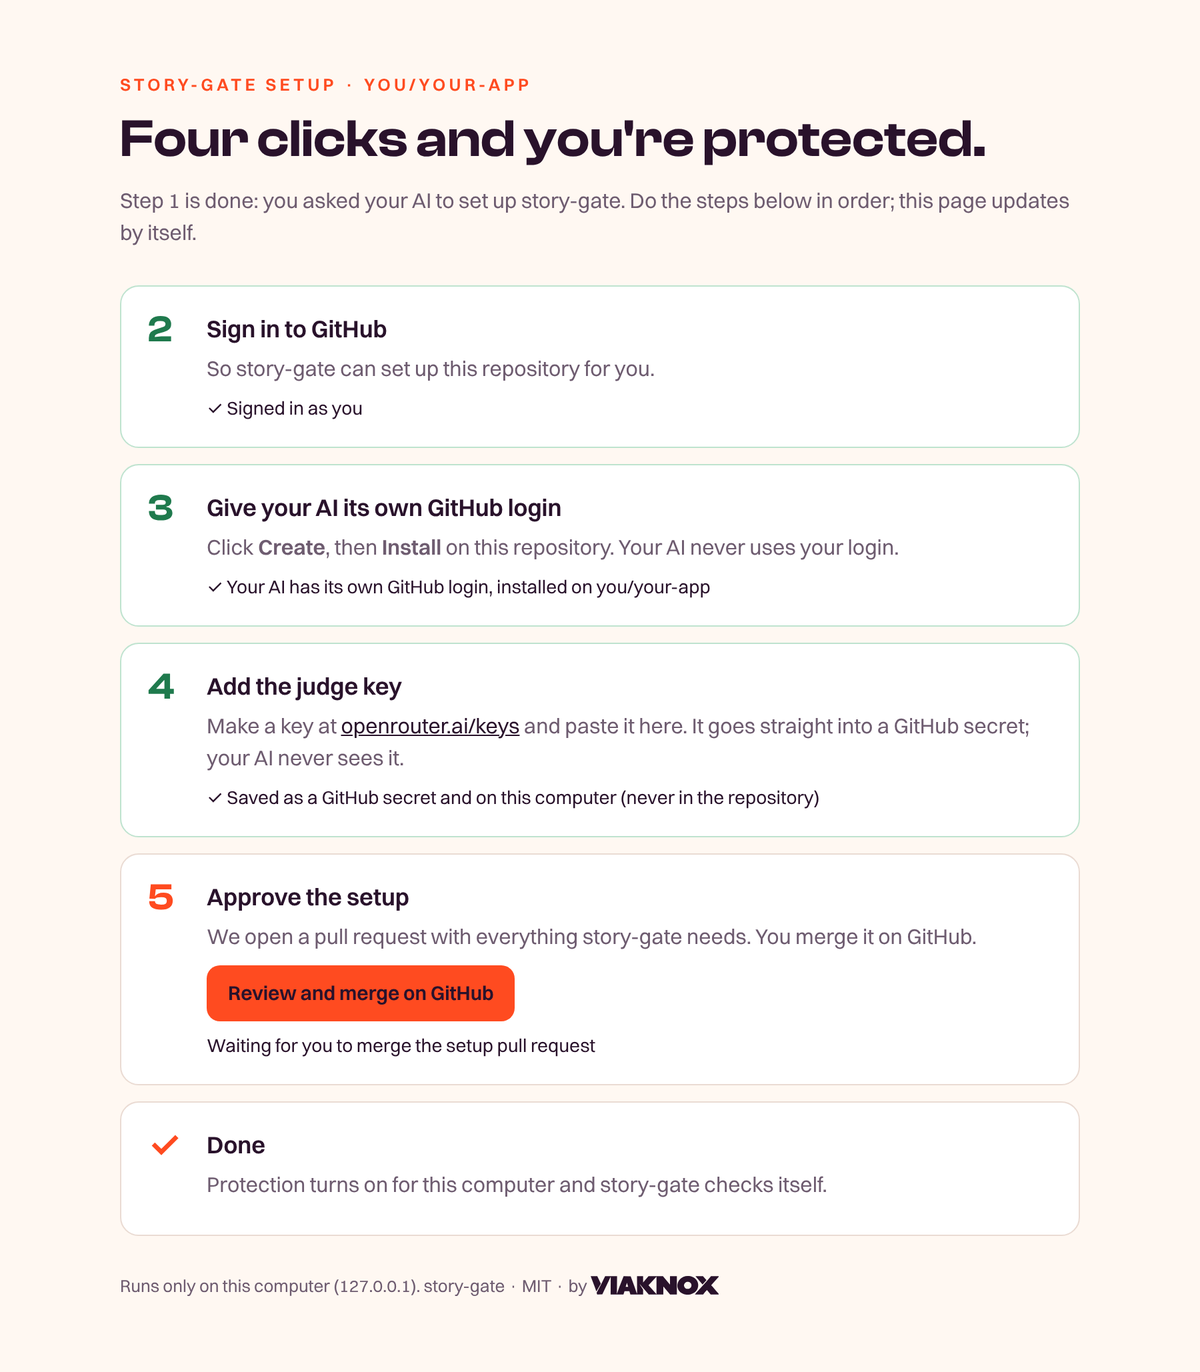
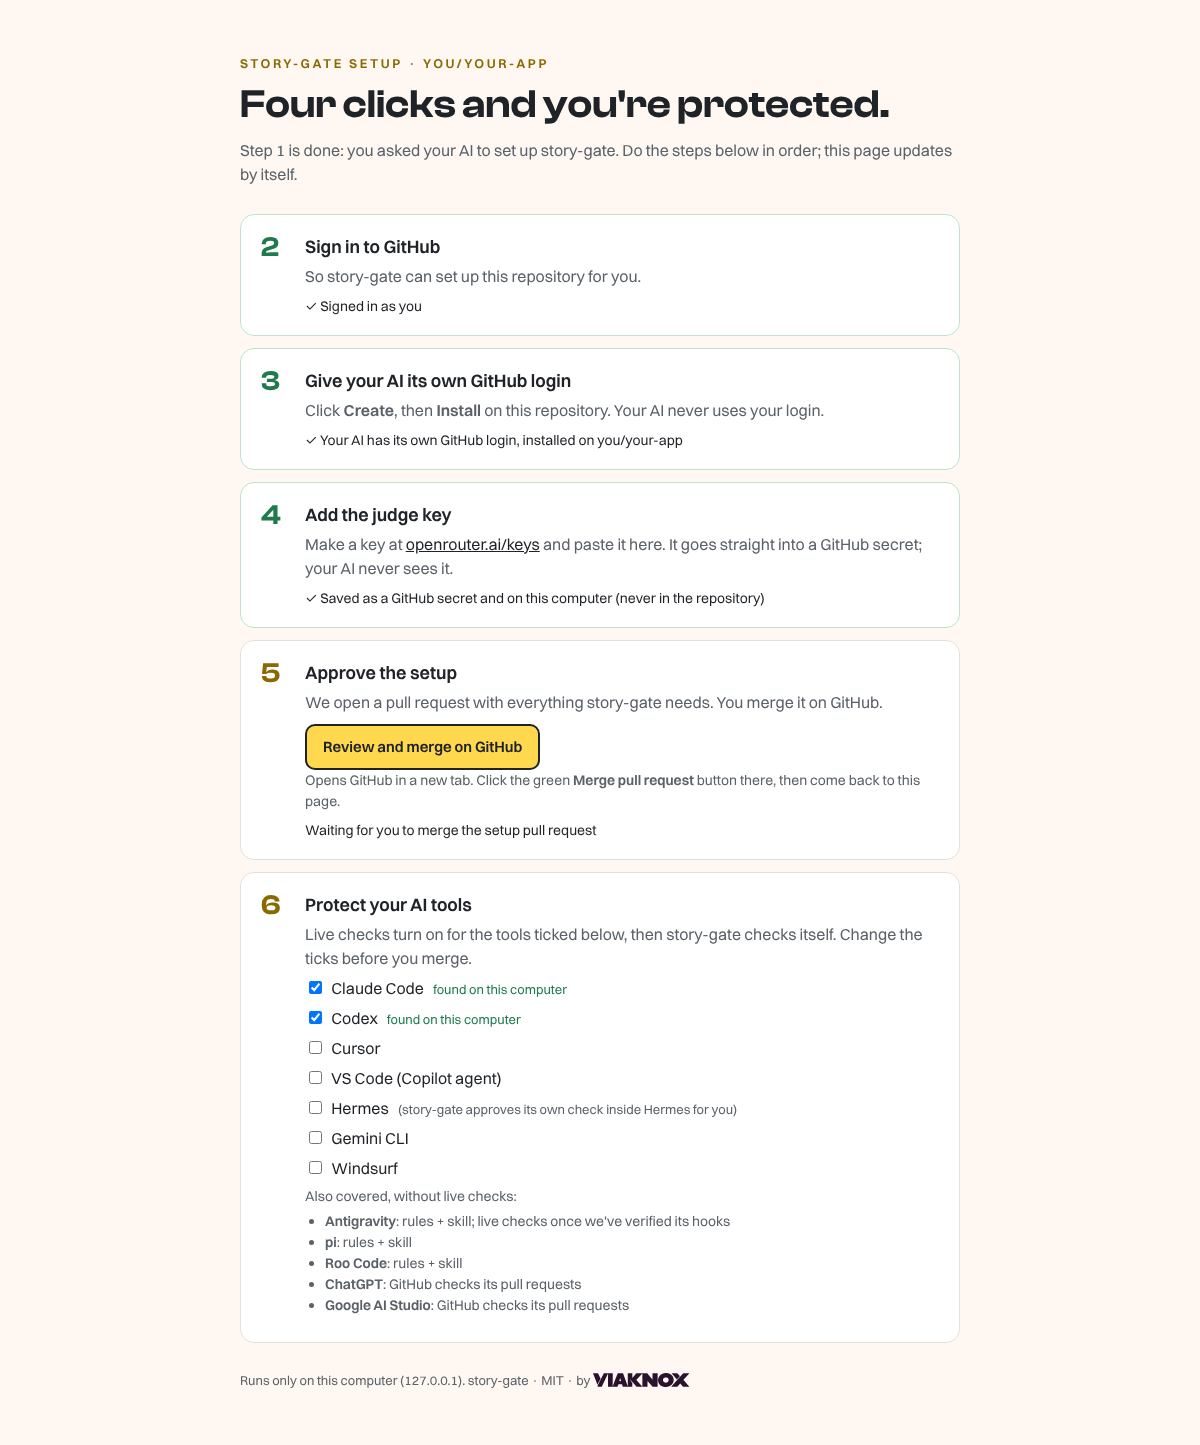
feat: setup page, dashboard and validation page in the story-gate identity
- Signal Yellow #FFD84D replaces Tangelo as the accent; Graphite #1F2327 text.
  Small accent text on light uses #8A6A00 (AA); yellow buttons, notes and
  chart bars carry a Graphite outline so they stay visible on white.
- Dashboard dark mode moves to Graphite surfaces; the Viaknox wordmark keeps
  its brand colour (Aubergine on light, Paper on dark).
- Setup errors use the critical red instead of the old accent.
- Dashboard label colour FFD84D; test updated.
- Screenshots retaken: setup-page.png (now shows the AI-tools step),
  validation-page.png, and dashboard.png rebuilt from an HTML source.

Claude-Session: https://claude.ai/code/session_01929bs6sfYgdxUDiXbAUoKN

diff --git a/docs/assets/src/dashboard.html b/docs/assets/src/dashboard.html
@@ -1,0 +1,25 @@
+<!doctype html><html><head><meta charset="utf-8"><link rel="stylesheet" href="theme.css"><style>
+.cols{display:grid;grid-template-columns:1fr 1fr;gap:31px;margin-top:56px}
+.shot{background:var(--card);border:1.5px solid var(--line);border-radius:22px;padding:34px 34px 30px}
+.shot h3{margin:0 0 8px}.shot p{font-size:23px;line-height:1.5;color:var(--muted);margin-bottom:22px}.shot p b{color:var(--ink)}
+.frame{border:1.5px solid var(--line);border-radius:14px;overflow:hidden;height:640px;position:relative}.frame img{width:100%;display:block}
+.pin{position:absolute;width:52px;height:52px;border-radius:50%;background:var(--yellow);color:var(--ink);font:600 28px/48px Clash;text-align:center;border:2px solid var(--ink);box-shadow:0 0 0 5px #fff}
+.how{display:grid;grid-template-columns:repeat(3,1fr);gap:31px;margin-top:31px}
+.how h3{margin:20px 0 10px}.how p{font-size:23px;line-height:1.52;color:var(--muted)}.how p b{color:var(--ink)}
+</style></head><body>
+<div class="top"><img src="../story-gate-mark-small.svg" alt=""><div class="eyebrow">THE DASHBOARD · WHERE YOUR PROJECT STANDS</div></div>
+<h1>See every story, every agent, at a glance.</h1>
+<p class="lede">No new app to learn. It lives in your repository, and only people who can see the repository can see it.</p>
+<div class="cols">
+ <div class="shot"><h3>On GitHub: the pinned issue</h3><p>Open your repository → <b>Issues</b> → <b>Story-gate dashboard</b> at the top. It updates by itself.</p>
+  <div class="frame"><img src="dashboard-issue.png" alt=""></div></div>
+ <div class="shot"><h3>The full report</h3><p>Click <b>download the HTML dashboard</b> in the issue. The numbers below point here.</p>
+  <div class="frame"><img src="dashboard-report.png" alt=""><span class="pin" style="right:14px;top:62px">1</span><span class="pin" style="right:14px;top:148px">2</span><span class="pin" style="left:250px;top:128px">3</span></div></div>
+</div>
+<div class="how">
+ <div class="card"><div class="big">1</div><h3>Is the project healthy?</h3><p>The top numbers: stories ready to build, in progress, done, and how many acceptance criteria tests proved.</p></div>
+ <div class="card"><div class="big">2</div><h3>Who's working on what?</h3><p>Each AI agent, its story, % done, and whether it's drifting from the spec. <b>AT_RISK</b> means look now.</p></div>
+ <div class="card"><div class="big">3</div><h3>What's next?</h3><p>"Queued to start" lists stories that passed READY and are waiting. Ask your AI: <code>story-gate dashboard --open</code></p></div>
+</div>
+<footer><span class="l"><img src="../story-gate-mark-small.svg" alt="">story-gate · MIT · github.com/SathiaAI/story-gate</span><span class="by">by <img src="../../../.story-gate/vendor/viaknox-wordmark.svg" alt="Viaknox"></span></footer>
+</body></html>

diff --git a/.story-gate/sg_dashboard.py b/.story-gate/sg_dashboard.py
@@ -514,23 +514,23 @@ WORDMARK_FILE = Path(__file__).resolve().parent / "vendor" / "viaknox-wordmark.s
 TABLER_FILE = Path(__file__).resolve().parent / "vendor" / "tabler.min.css"
 
 BRAND_CSS = """
-:root{--sg-tangelo:#FF4B20;--sg-aubergine:#29122B;--sg-paper:#FFF8F2;--sg-ink:#29122B;--sg-muted:#6E5C70;--sg-surface:#FFF8F2;--sg-card:#FFFFFF;
---sg-line:#E9DDD4;--sg-critical:#B42318;--tblr-primary:#FF4B20;--tblr-body-bg:#FFF8F2;--tblr-body-color:#29122B}
-@media (prefers-color-scheme: dark){:root{--sg-ink:#FFF8F2;--sg-muted:#CDBFCF;--sg-surface:#1E0D20;--sg-card:#29122B;--sg-line:#4A2F4D;
---sg-critical:#FF8A80;--tblr-body-bg:#1E0D20;--tblr-body-color:#FFF8F2}}
+:root{--sg-accent:#FFD84D;--sg-accent-text:#8A6A00;--sg-graphite:#1F2327;--sg-paper:#FFF8F2;--sg-ink:#1F2327;--sg-muted:#5B6168;--sg-surface:#FFF8F2;--sg-card:#FFFFFF;
+--sg-line:#E4E1DB;--sg-critical:#B42318;--sg-wordmark:#29122B;--tblr-primary:#1F2327;--tblr-body-bg:#FFF8F2;--tblr-body-color:#1F2327}
+@media (prefers-color-scheme: dark){:root{--sg-ink:#F1F5F2;--sg-muted:#B9C0C6;--sg-surface:#16191C;--sg-card:#1F2327;--sg-line:#3A4046;--sg-accent-text:#FFD84D;
+--sg-critical:#FF8A80;--sg-wordmark:#FFF8F2;--tblr-primary:#FFD84D;--tblr-body-bg:#16191C;--tblr-body-color:#F1F5F2}}
 body{background:var(--sg-surface);color:var(--sg-ink)}
 h1,h2,h3,.h1,.card-title,strong{color:var(--sg-ink)} .card-header{border-color:var(--sg-line)}
 .table{--tblr-table-bg:transparent;--tblr-table-color:var(--sg-ink);--tblr-table-border-color:var(--sg-line)}
 .table thead th{background:transparent;color:var(--sg-muted);border-color:var(--sg-line)}
-.alert{background:var(--sg-card);color:var(--sg-ink);border:1px solid var(--sg-line);border-left:4px solid var(--sg-tangelo)}
+.alert{background:var(--sg-card);color:var(--sg-ink);border:1px solid var(--sg-line);border-left:4px solid var(--sg-accent)}
 .card{background:var(--sg-card);border-color:var(--sg-line)} .table{color:var(--sg-ink)} .text-secondary{color:var(--sg-muted)!important}
 .sg-kpi .h1{font-weight:700;letter-spacing:-.01em;margin:0} .sg-kpi .subheader{color:var(--sg-muted)}
-.sg-chart{width:100%;height:auto} .sg-bar{fill:var(--sg-tangelo)} .sg-bar-critical{fill:var(--sg-critical)}
+.sg-chart{width:100%;height:auto} .sg-bar{fill:var(--sg-accent);stroke:var(--sg-graphite);stroke-width:1.5} .sg-bar-critical{fill:var(--sg-critical)}
 .sg-axis,.sg-value{fill:var(--sg-ink);font-size:14px} .sg-value{font-weight:600}
 .sg-pill{display:inline-block;padding:.1rem .5rem;border-radius:999px;border:1px solid var(--sg-line);font-size:.8rem;white-space:nowrap}
 .sg-pill.pass{border-color:#2E7D4F} .sg-pill.fail{border-color:var(--sg-critical)} .sg-est{color:var(--sg-muted);font-size:.8rem}
-.sg-brand{color:var(--sg-ink);display:inline-flex;align-items:center;gap:.4rem} .sg-brand svg{height:14px;width:auto}
-header.sg-head{border-bottom:3px solid var(--sg-tangelo)}
+.sg-brand{color:var(--sg-ink);display:inline-flex;align-items:center;gap:.4rem} .sg-brand svg{height:14px;width:auto;color:var(--sg-wordmark)}
+header.sg-head{border-bottom:3px solid var(--sg-accent)}
 @media (max-width:640px){.container-xl{padding-left:16px;padding-right:16px}}
 """
 
@@ -665,7 +665,7 @@ def publish_issue(G, repo, token, body, generated_at, issue_number=None):
     The issue is found by `dashboard_issue` in config (if a human set it), else by the story-gate-dashboard label."""
     st, _, _ = call(G, "GET", "/repos/%s/labels/%s" % (repo, LABEL), token)
     if st == 404:
-        call(G, "POST", "/repos/%s/labels" % repo, token, {"name": LABEL, "color": "FF4B20", "description": "Managed by story-gate"})
+        call(G, "POST", "/repos/%s/labels" % repo, token, {"name": LABEL, "color": "FFD84D", "description": "Managed by story-gate"})
     st, issues, _ = call(G, "GET", "/repos/%s/issues?labels=%s&state=all&per_page=20&sort=created&direction=asc" % (repo, LABEL), token)
     if st == 410:
         return "Issues are turned off in this repository, so the dashboard is only in the workflow summary and the report artifact."

diff --git a/.story-gate/sg_setup.py b/.story-gate/sg_setup.py
@@ -396,19 +396,19 @@ CSS = """
 @font-face{font-family:"Clash Display";font-weight:600;src:url(/font/ClashDisplay-600.woff2) format("woff2")}
 @font-face{font-family:Switzer;font-weight:400;src:url(/font/Switzer-400.woff2) format("woff2")}
 @font-face{font-family:Switzer;font-weight:600;src:url(/font/Switzer-600.woff2) format("woff2")}
-:root{--tangelo:#FF4B20;--aubergine:#29122B;--paper:#FFF8F2;--muted:#6E5C70;--line:#EADBD3;--ok:#1F7A4D}
-*{box-sizing:border-box}body{margin:0;background:var(--paper);color:var(--aubergine);font:16px/1.5 Switzer,"Segoe UI",system-ui,sans-serif}
+:root{--yellow:#FFD84D;--yellow-text:#8A6A00;--graphite:#1F2327;--paper:#FFF8F2;--muted:#5B6168;--line:#E4E1DB;--ok:#1F7A4D;--error:#B42318}
+*{box-sizing:border-box}body{margin:0;background:var(--paper);color:var(--graphite);font:16px/1.5 Switzer,"Segoe UI",system-ui,sans-serif}
 main{max-width:760px;margin:6vh auto;padding:0 20px}h1{font:600 40px/1.1 "Clash Display",Switzer,system-ui,sans-serif;margin:.2em 0 .3em}
-.eyebrow{color:var(--tangelo);letter-spacing:.2em;font-size:13px;font-weight:600;text-transform:uppercase}
+.eyebrow{color:var(--yellow-text);letter-spacing:.2em;font-size:13px;font-weight:600;text-transform:uppercase}
 .lead{color:var(--muted);margin:0 0 28px}.step{background:#fff;border:1px solid var(--line);border-radius:14px;padding:18px 20px;margin:12px 0;display:flex;gap:16px}
-.n{font:600 28px/1 "Clash Display",system-ui;color:var(--tangelo);min-width:28px}.step h2{font-size:18px;margin:0 0 4px}.step p{margin:0;color:var(--muted)}
-.step.ok{border-color:#BFE3CF}.step.ok .act{display:none}a{color:var(--aubergine)}.step.ok .n{color:var(--ok)}.step.error{border-color:var(--tangelo)}.msg{margin-top:8px;font-size:14px}.hint{margin:8px 0 0;font-size:14px;color:var(--muted)}
-button,.btn{background:var(--tangelo);color:var(--aubergine);border:0;border-radius:10px;padding:10px 16px;font-weight:600;font-size:15px;cursor:pointer;text-decoration:none;display:inline-block;margin-top:10px}
+.n{font:600 28px/1 "Clash Display",system-ui;color:var(--yellow-text);min-width:28px}.step h2{font-size:18px;margin:0 0 4px}.step p{margin:0;color:var(--muted)}
+.step.ok{border-color:#BFE3CF}.step.ok .act{display:none}a{color:var(--graphite)}.step.ok .n{color:var(--ok)}.step.error{border-color:var(--error)}.msg{margin-top:8px;font-size:14px}.hint{margin:8px 0 0;font-size:14px;color:var(--muted)}
+button,.btn{background:var(--yellow);color:var(--graphite);border:2px solid var(--graphite);border-radius:10px;padding:10px 16px;font-weight:600;font-size:15px;cursor:pointer;text-decoration:none;display:inline-block;margin-top:10px}
 button:disabled{opacity:.4;cursor:default}input{font:inherit;padding:9px 12px;border:1px solid var(--line);border-radius:10px;width:min(420px,100%)}
 .lbl{display:block;margin-top:10px;font-weight:600}.lbl span{font-weight:400;color:var(--muted);font-size:14px}.lbl input{display:block;margin-top:6px}
 .tool{display:block;margin:6px 0}.tool input{width:auto;margin-right:6px}.tool span{color:var(--ok);font-size:13px;margin-left:6px}.tool em{color:var(--muted);font-size:13px;font-style:normal;margin-left:6px}.other{margin:4px 0 0;padding-left:20px;color:var(--muted);font-size:14px}
 .code{font:600 28px/1 ui-monospace,monospace;letter-spacing:.15em;background:var(--paper);padding:8px 12px;border-radius:8px;display:inline-block;margin-top:8px}
-.by svg{height:14px;width:auto;vertical-align:-2px}.note{background:var(--tangelo);color:var(--aubergine);border-radius:14px;padding:14px 18px;margin-top:18px}.foot{margin-top:28px;color:var(--muted);font-size:13px}
+.by svg{height:14px;width:auto;vertical-align:-2px}.note{background:var(--yellow);color:var(--graphite);border:2px solid var(--graphite);border-radius:14px;padding:14px 18px;margin-top:18px}.foot{margin-top:28px;color:var(--muted);font-size:13px}
 """
 
 

diff --git a/.story-gate/sg_report.py b/.story-gate/sg_report.py
@@ -188,7 +188,7 @@ def md_html(text):
 CSS = """
 .sg-code{color:var(--sg-ink);background:var(--sg-card);border:1px solid var(--sg-line);padding:.75rem;border-radius:6px;white-space:pre-wrap;word-break:break-word;font-size:.85rem}
 .sg-tag{font-size:.75rem;text-transform:uppercase;letter-spacing:.05em;padding:.1rem .45rem;border-radius:4px;border:1px solid var(--sg-line)}
-.sg-tag.checked{border-color:#2E7D4F} .sg-tag.reported{border-color:var(--sg-tangelo)}
+.sg-tag.checked{border-color:#2E7D4F} .sg-tag.reported{border-color:var(--sg-accent-text)}
 figure img{max-width:100%;height:auto;border:1px solid var(--sg-line);border-radius:6px}
 .sg-doc h2,.sg-doc h3{margin-top:1.25rem} .sg-nowrap{white-space:nowrap} code{color:var(--sg-ink)} details summary{cursor:pointer}
 """

diff --git a/.story-gate/sg_github.py b/.story-gate/sg_github.py
@@ -434,8 +434,8 @@ def setup_agent(owner=None, org=False, code=None, open_browser=True):
 
 def page(inner):
     return ("<!doctype html><meta charset=utf-8><title>story-gate setup</title><style>body{font:16px/1.5 system-ui,sans-serif;"
-            "background:#FFF8F2;color:#29122B;max-width:640px;margin:10vh auto;padding:0 24px}button{background:#FF4B20;color:#29122B;"
-            "border:0;border-radius:10px;padding:12px 18px;font-weight:600}</style>" + inner)
+            "background:#FFF8F2;color:#1F2327;max-width:640px;margin:10vh auto;padding:0 24px}button{background:#FFD84D;color:#1F2327;"
+            "border:2px solid #1F2327;border-radius:10px;padding:12px 18px;font-weight:600}</style>" + inner)
 
 
 def agent_record():

diff --git a/tests/test_gate.py b/tests/test_gate.py
@@ -2297,7 +2297,7 @@ class TestDashboard(Base):
         page = self.D.to_html(self.data)
         self.assertNotIn("<script>alert", page); self.assertIn("default-src 'none'", page)
         self.assertNotIn("http", page.split("</style>")[-1].replace('xmlns="http://www.w3.org/2000/svg"', "")); self.assertNotRegex(page, r"<(script|link|img|iframe)[\s>]")
-        self.assertIn("Tabler", page); self.assertIn("#FF4B20", page); self.assertIn('aria-label="Viaknox"', page)
+        self.assertIn("Tabler", page); self.assertIn("#FFD84D", page); self.assertIn('aria-label="Viaknox"', page)
 
     def test_record_folders_with_bad_names_and_huge_files_are_skipped(self):
         self.g("checkout", "-q", "-b", "feat/evil", "main")

diff --git a/docs/assets/src/README.md b/docs/assets/src/README.md
@@ -12,5 +12,7 @@ node docs/assets/src/render.js docs/assets/src/header.html header.png && convert
 Set `CHROMIUM=/path/to/chromium` if Playwright's own browser is not installed.
 
 - `theme.css` holds the colours and fonts (Clash Display and Switzer from `.story-gate/vendor/`).
+- `dashboard.html` frames two screenshots: `dashboard-issue.png` (the pinned GitHub issue) and `dashboard-report.png` (the HTML report from `sg_dashboard.to_html` on a demo repository). Retake the report screenshot after changing the dashboard's look.
+- `setup-page.png` and `validation-page.png` are screenshots of the real setup page and validation page at 1200 px wide.
 - `header-city.png` is the station illustration recoloured to Graphite ink with a Signal Yellow buffer stop.
 - The raven mark (`../story-gate-mark.svg`, `../story-gate-mark-small.svg`) is artwork from the Viaknox brand kit. Do not redraw, recolour or crop it. Use the small mark below 64 px.

diff --git a/README.md b/README.md
@@ -63,7 +63,7 @@ Set up story-gate in this repo: https://github.com/SathiaAI/story-gate
 
 **Steps 2 to 5** happen on a page that opens in your browser. It tells you exactly what to click, and ticks each step off when it's done.
 
-<p align="center"><img src="docs/assets/setup-page.png" alt="The setup page in the browser: sign in, give your AI its own login, add the judge key, approve the setup. Finished steps show a green tick." width="70%"></p>
+<p align="center"><img src="docs/assets/setup-page.png" alt="The setup page in the browser: sign in, give your AI its own login, add the judge key, approve the setup, tick the AI tools to protect. Finished steps show a green tick." width="70%"></p>
 
 **What you need:** a GitHub account, your project on GitHub, and an AI coding tool. Nothing else; your AI installs the rest.
 
